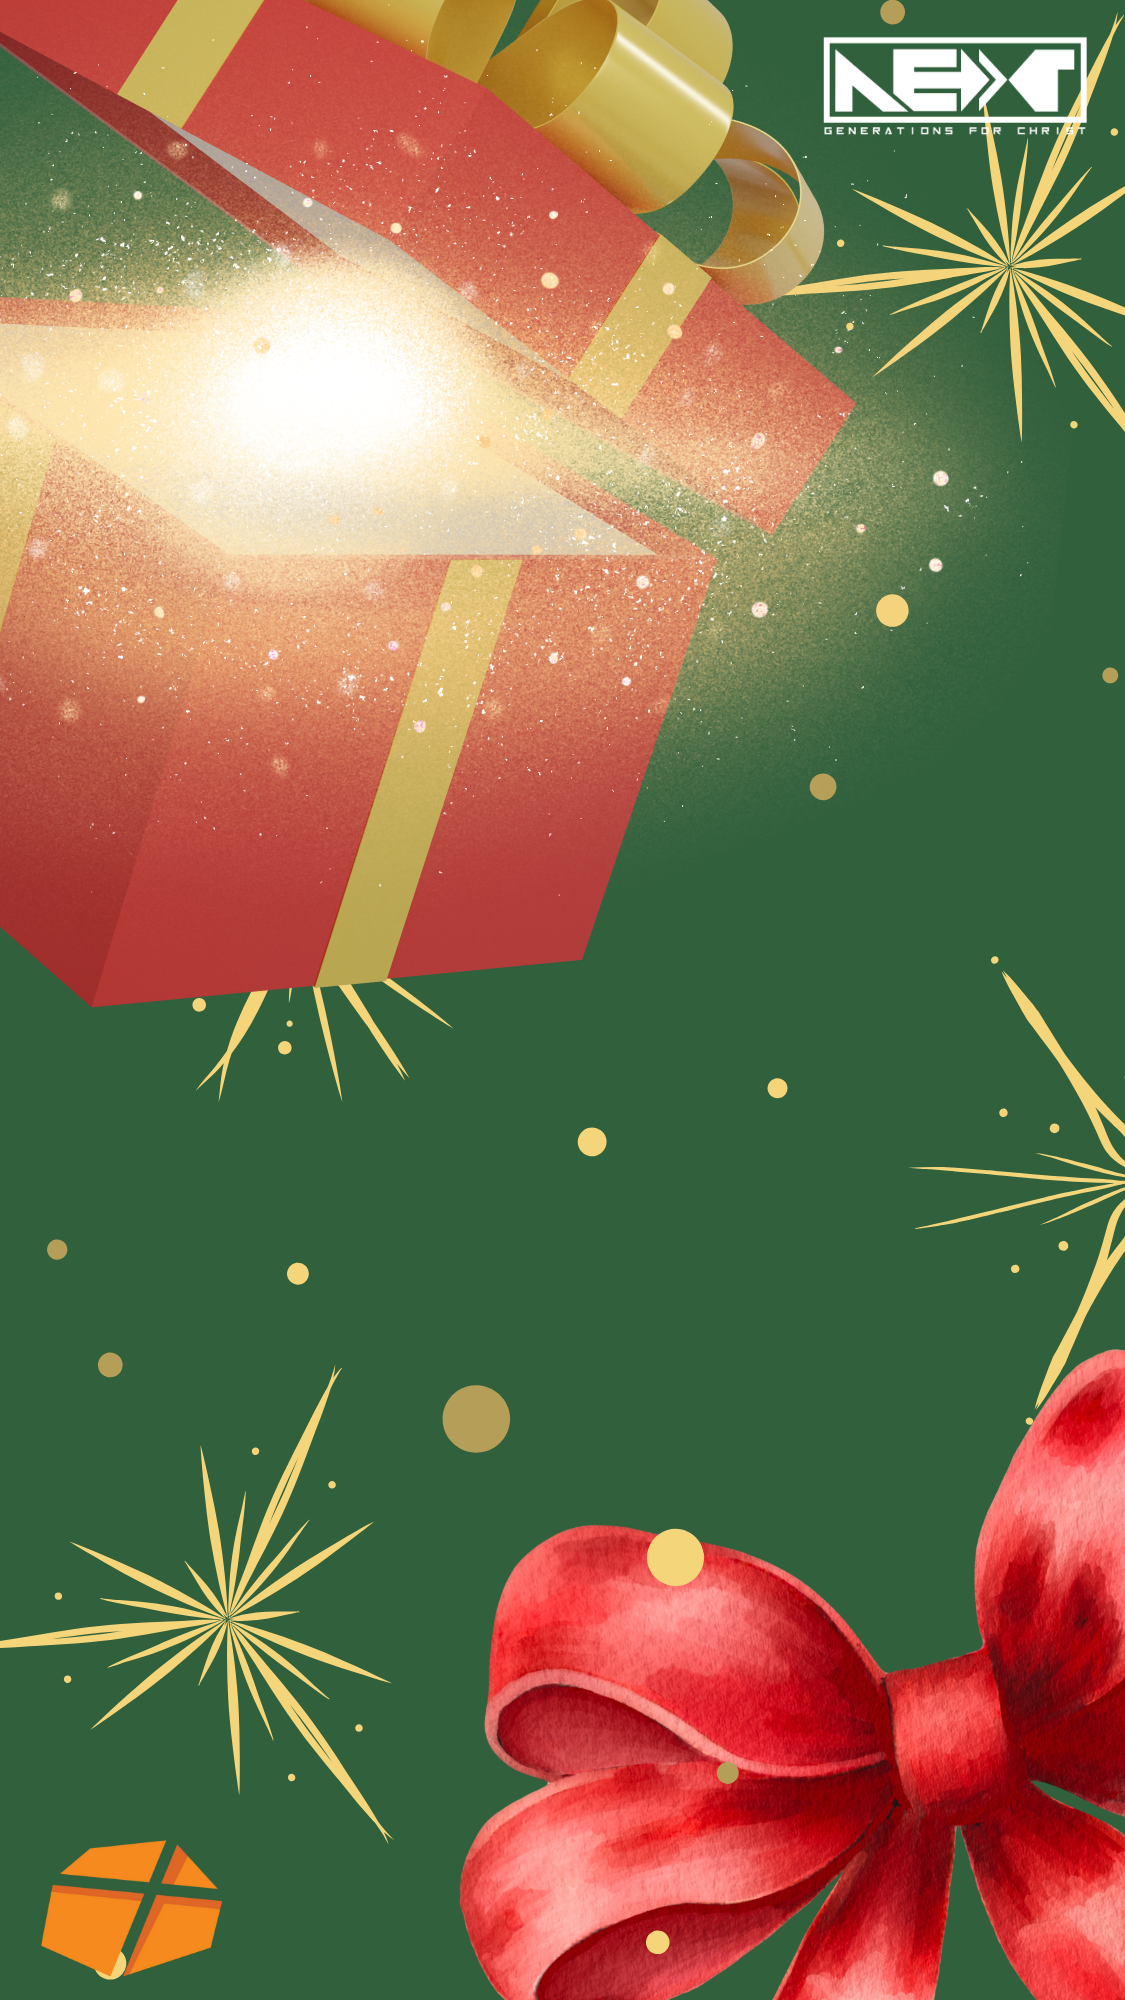
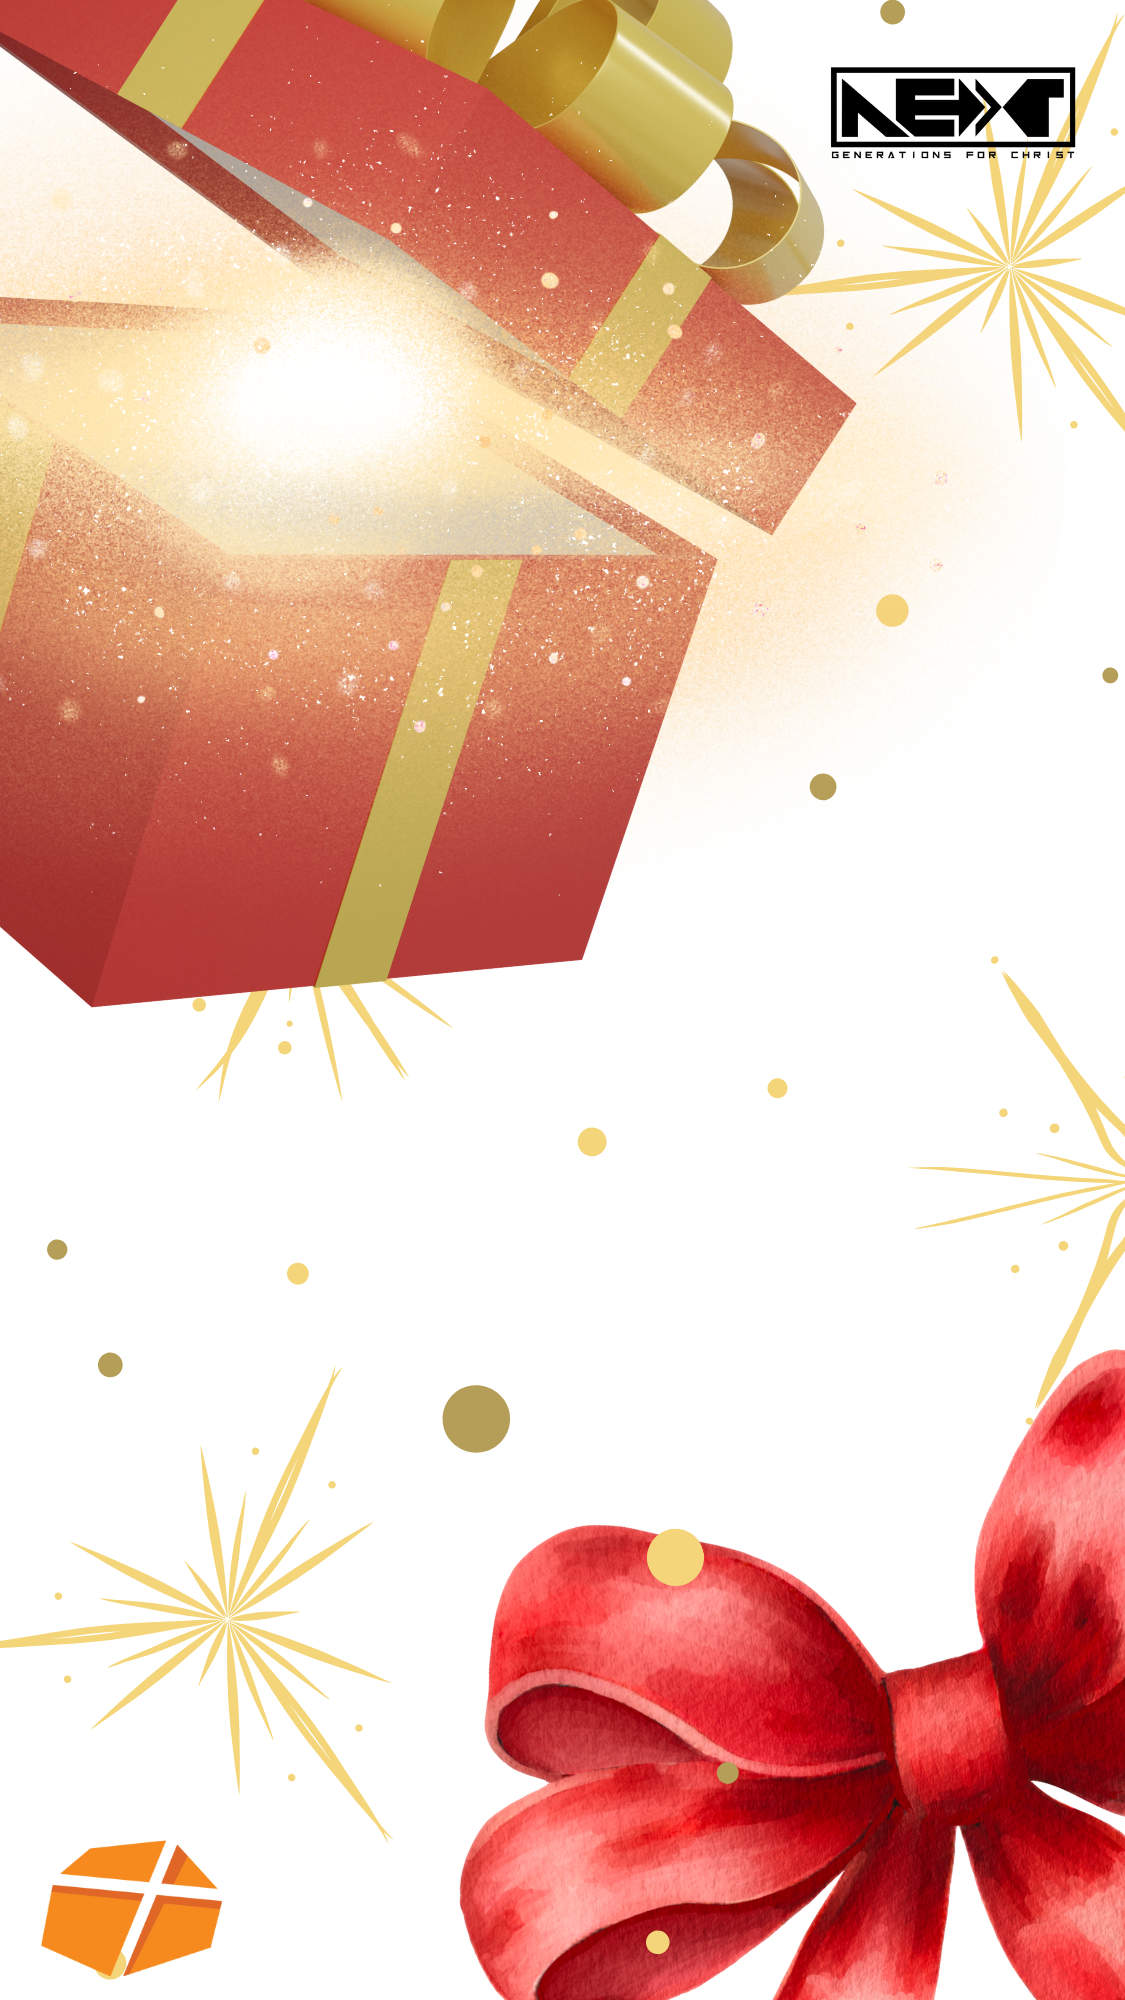
background update

diff --git a/src/css/index.css b/src/css/index.css
@@ -13,7 +13,7 @@ h2, h4 {
 .app-background {
   min-height: 100vh;
   padding: 2rem;
-  background-image: url('/assets/background.jpg');
+  background-image: url('/assets/background.png');
   background-size: cover;
   background-position: center;
   transition: background-image 0.3s ease;
